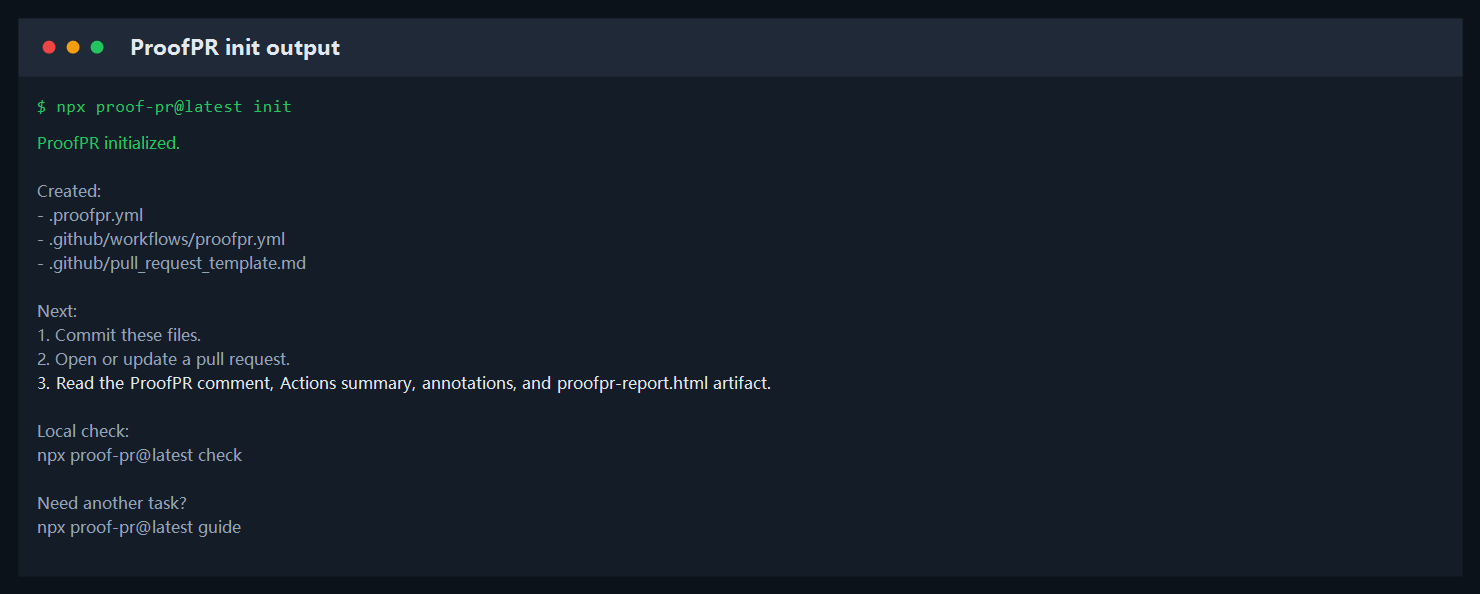
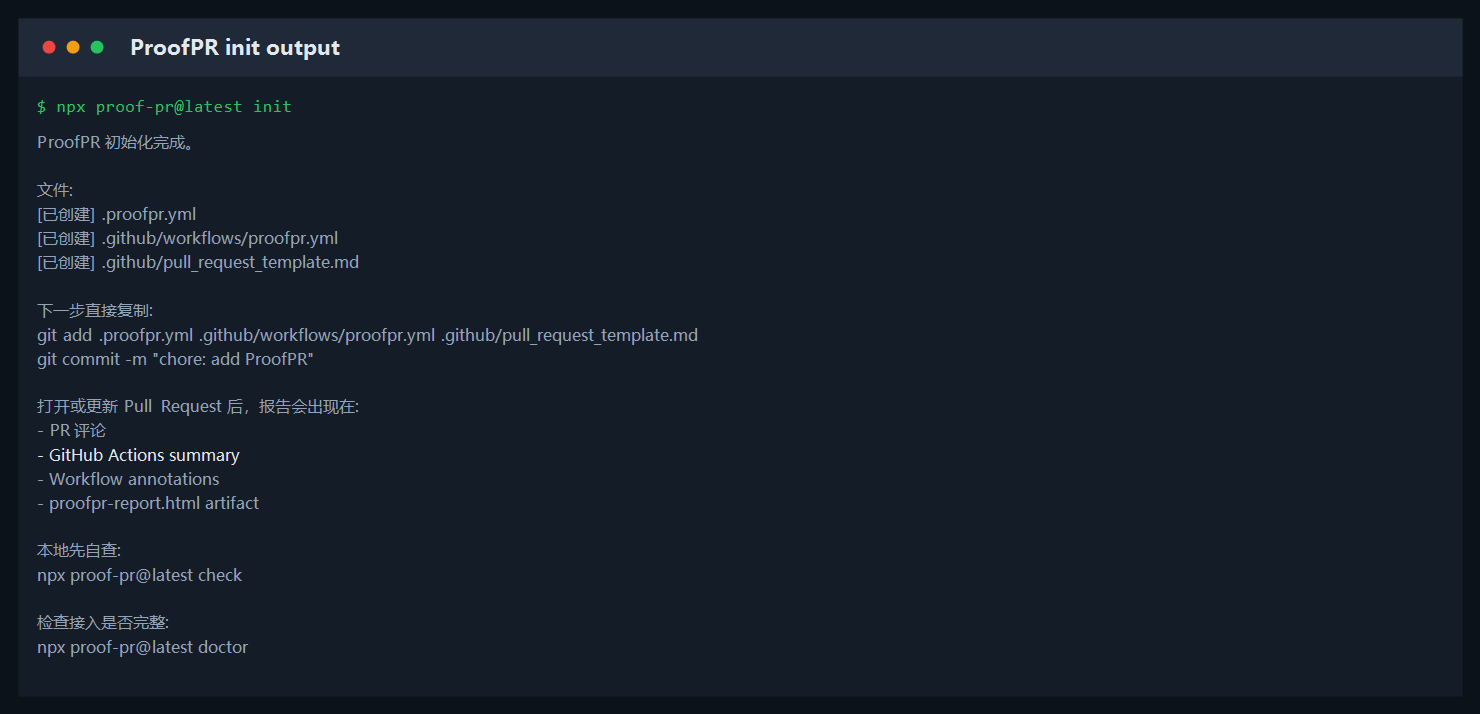
feat: simplify ProofPR onboarding

Changed region(s): [[0.0, 0.1212, 0.5284, 0.9394], [0.0311, 0.0, 0.9635, 0.0909]]

diff --git a/packages/cli/src/index.ts b/packages/cli/src/index.ts
@@ -22,7 +22,7 @@ import {
 } from "@proof-pr/core";
 
 const execFileAsync = promisify(execFile);
-const CLI_VERSION = "0.1.20";
+const CLI_VERSION = "0.1.21";
 
 type OutputFormat = "json" | "markdown" | "sarif" | "html";
 type FailLevel = RiskLevel | "never";
@@ -68,7 +68,7 @@ interface DoctorCommandOptions {
   config: string;
   workflowPath: string;
   prTemplatePath: string;
-  base: string;
+  base?: string;
   head: string;
 }
 
@@ -86,6 +86,11 @@ interface DoctorCheck {
 interface DoctorReport {
   checks: DoctorCheck[];
   nextSteps: string[];
+}
+
+interface InitFileResult {
+  path: string;
+  status: "created" | "updated" | "skipped";
 }
 
 interface DemoCase {
@@ -316,7 +321,7 @@ program
   .option("--config <path>", "Path to .proofpr.yml.", ".proofpr.yml")
   .option("--workflow-path <path>", "Path to the GitHub Actions workflow.", ".github/workflows/proofpr.yml")
   .option("--pr-template-path <path>", "Path to the pull request template.", ".github/pull_request_template.md")
-  .option("--base <ref>", "Base git ref used for local diff checks.", "origin/main")
+  .option("--base <ref>", "Base git ref used for local diff checks. Defaults to the same auto-detected base as check.")
   .option("--head <ref>", "Head git ref used for local diff checks.", "HEAD")
   .action(async (options: DoctorCommandOptions) => {
     const report = await runDoctor(options);
@@ -470,32 +475,29 @@ program
   .option("--fail-on <level>", "Workflow failure threshold: low, medium, high, or never.", parseFailLevel, "high")
   .option("--force", "Overwrite existing files.", false)
   .action(async (options: InitCommandOptions) => {
-    await writeIfMissing(options.configPath, renderConfigTemplate(options.preset), options.force);
-    await writeIfMissing(
-      options.workflowPath,
-      renderWorkflowTemplate(options.failOn, options.htmlReport, options.htmlOutput),
-      options.force
-    );
-    const created = [options.configPath, options.workflowPath];
-    const skipped: string[] = [];
+    const results: InitFileResult[] = [
+      {
+        path: options.configPath,
+        status: await writeProjectFile(options.configPath, renderConfigTemplate(options.preset), options.force)
+      },
+      {
+        path: options.workflowPath,
+        status: await writeProjectFile(
+          options.workflowPath,
+          renderWorkflowTemplate(options.failOn, options.htmlReport, options.htmlOutput),
+          options.force
+        )
+      }
+    ];
 
     if (options.prTemplate) {
-      const wroteTemplate = await writeIfMissingSoft(
-        options.prTemplatePath,
-        renderPullRequestTemplate(),
-        options.force
-      );
-
-      if (wroteTemplate) {
-        created.push(options.prTemplatePath);
-      } else {
-        skipped.push(`${options.prTemplatePath} already exists`);
-      }
+      results.push({
+        path: options.prTemplatePath,
+        status: await writeProjectFile(options.prTemplatePath, renderPullRequestTemplate(), options.force)
+      });
     }
 
-    process.stdout.write(
-      `ProofPR initialized.\n\nCreated:\n${created.map((item) => `- ${item}`).join("\n")}${skipped.length > 0 ? `\n\nSkipped:\n${skipped.map((item) => `- ${item}`).join("\n")}` : ""}\n\nNext:\n1. Commit these files.\n2. Open or update a pull request.\n3. Read the ProofPR comment, Actions summary, annotations${options.htmlReport ? `, and ${options.htmlOutput} artifact` : ""}.\n\nLocal check:\nnpx proof-pr@latest check\n\nNeed another task?\nnpx proof-pr@latest guide\n`
-    );
+    process.stdout.write(renderInitReport(results, options));
   });
 
 program
@@ -547,11 +549,11 @@ function renderGuide(): string {
 
 1. 接入 GitHub PR 自动检查
    npx proof-pr@latest init
-   然后提交 .proofpr.yml、.github/workflows/proofpr.yml 和 .github/pull_request_template.md，打开 PR 后看评论、Actions summary、annotations 和 HTML artifact。
+   然后提交 .proofpr.yml、.github/workflows/proofpr.yml 和 .github/pull_request_template.md；重复运行不会覆盖已有文件，需要刷新模板时加 --force。
 
 2. 体检当前仓库接入状态
    npx proof-pr@latest doctor
-   检查配置文件、workflow、PR 模板、Action 版本、PR 权限和本地 diff 是否正常。
+   检查配置文件、workflow、PR 模板、Action 版本、PR 权限和本地 diff 是否正常，并自动识别常见 base 分支。
 
 3. 已接入仓库，单独补 PR 模板
    npx proof-pr@latest template
@@ -796,20 +798,33 @@ async function inspectGitDiff(
     checks.push({ level: "info", title: "无法读取当前分支名" });
   }
 
+  const detectedBase = options.base ?? (await resolveDefaultBaseRef().catch(() => undefined));
+
   try {
-    const diff = await readGitDiff(options.base, options.head);
-    checks.push({
-      level: "pass",
-      title: `可以读取 ${options.base}...${options.head} diff`,
-      detail: diff.length === 0 ? "当前没有可扫描的 diff。" : `diff 大小约 ${diff.length} 字符。`
-    });
+    if (detectedBase) {
+      const diff = await readCheckDiff(detectedBase, options.head);
+      checks.push({
+        level: "pass",
+        title: `可以读取 ${detectedBase}...${options.head} diff`,
+        detail: diff.length === 0 ? "当前没有可扫描的 diff。" : `diff 大小约 ${diff.length} 字符。`
+      });
+    } else {
+      const diff = await readGitDiff(undefined, options.head);
+      checks.push({
+        level: "warn",
+        title: "未找到默认 base 分支，只检查当前工作区 diff",
+        detail: diff.length === 0 ? "当前工作区没有可扫描的 diff。" : `工作区 diff 大小约 ${diff.length} 字符。`
+      });
+      nextSteps.add("如果仓库有远程主分支，先运行 git fetch origin；主分支不是 main/master 时，使用 npx proof-pr@latest doctor --base origin/你的主分支。");
+    }
   } catch (error) {
+    const baseLabel = detectedBase ?? "工作区";
     checks.push({
       level: "warn",
-      title: `无法读取 ${options.base}...${options.head} diff`,
+      title: `无法读取 ${baseLabel}...${options.head} diff`,
       detail: error instanceof Error ? error.message : String(error)
     });
-    nextSteps.add(`运行 git fetch origin 后重试；如果主分支不是 main，请使用 --base origin/master 或你的实际主分支。`);
+    nextSteps.add("运行 git fetch origin 后重试；如果主分支不是 main/master，请使用 --base origin/你的实际主分支。");
   }
 }
 
@@ -835,6 +850,42 @@ ${checks}
 
 Next:
 ${nextSteps}
+`;
+}
+
+function renderInitReport(results: InitFileResult[], options: InitCommandOptions): string {
+  const statusText: Record<InitFileResult["status"], string> = {
+    created: "已创建",
+    updated: "已更新",
+    skipped: "已存在，未覆盖"
+  };
+  const files = results.map((result) => `[${statusText[result.status]}] ${result.path}`).join("\n");
+  const skipped = results.filter((result) => result.status === "skipped");
+  const gitAddPaths = results.map((result) => result.path).join(" ");
+  const forceHint =
+    skipped.length > 0
+      ? "\n已有文件已保留不变。如果想用当前版本模板覆盖它们，运行：\nnpx proof-pr@latest init --force\n"
+      : "";
+
+  return `ProofPR 初始化完成。
+
+文件:
+${files}
+${forceHint}
+下一步直接复制:
+git add ${gitAddPaths}
+git commit -m "chore: add ProofPR"
+
+打开或更新 Pull Request 后，报告会出现在:
+- PR 评论
+- GitHub Actions summary
+- Workflow annotations${options.htmlReport ? `\n- ${options.htmlOutput} artifact` : ""}
+
+本地先自查:
+npx proof-pr@latest check
+
+检查接入是否完整:
+npx proof-pr@latest doctor
 `;
 }
 
@@ -951,14 +1002,16 @@ async function writeIfMissing(path: string, contents: string, force: boolean): P
   await writeFile(path, contents, "utf8");
 }
 
-async function writeIfMissingSoft(path: string, contents: string, force: boolean): Promise<boolean> {
-  if (!force && (await pathExists(path))) {
-    return false;
+async function writeProjectFile(path: string, contents: string, force: boolean): Promise<InitFileResult["status"]> {
+  const exists = await pathExists(path);
+
+  if (exists && !force) {
+    return "skipped";
   }
 
   await mkdir(dirname(path), { recursive: true });
   await writeFile(path, contents, "utf8");
-  return true;
+  return exists ? "updated" : "created";
 }
 
 async function writeOutput(path: string, contents: string): Promise<void> {

diff --git a/docs/commands.md b/docs/commands.md
@@ -73,6 +73,12 @@ npx proof-pr@latest init
 
 提交这些文件后，打开或更新 Pull Request，ProofPR 会自动运行。默认结果会出现在 PR 评论、Actions summary、workflow annotations 和 `proofpr-report` artifact。PR 模板会提醒贡献者补充验证、复现、截图、changelog 和权限理由。
 
+这个命令可以重复执行。已有文件默认保留不覆盖；如果想把配置、workflow 和 PR 模板刷新到当前版本模板，再使用：
+
+```bash
+npx proof-pr@latest init --force
+```
+
 如果你的仓库已经接入过 ProofPR，只想单独补 PR 模板：
 
 ```bash
@@ -101,12 +107,12 @@ npx proof-pr@latest doctor
 - `.github/workflows/proofpr.yml` 是否存在。
 - `.github/pull_request_template.md` 是否存在，以及是否提示验证、复现、截图或权限理由。
 - workflow 是否监听 `pull_request`。
-- workflow 是否使用当前推荐的 `linsk27/proof-pr@v0.1.20`。
+- workflow 是否使用当前推荐的 `linsk27/proof-pr@v0.1.21`。
 - 是否具备 `pull-requests: write` 和 `contents: read` 权限。
 - 是否启用了 `html-output` 和 `actions/upload-artifact`，方便下载 HTML 可视化报告。
-- 当前目录是否在 Git 仓库里，以及 `origin/main...HEAD` diff 是否可读。
+- 当前目录是否在 Git 仓库里，以及自动识别出的 base...HEAD diff 是否可读。
 
-如果你的主分支不是 `main`，可以这样指定：
+`doctor` 默认会像 `check` 一样自动选择 `origin/main`、`origin/master`、`upstream/main`、`upstream/master`、`main` 或 `master`。如果你的主分支不是这些名字，可以这样指定：
 
 ```bash
 npx proof-pr@latest doctor --base origin/master

diff --git a/docs/release.md b/docs/release.md
@@ -1,6 +1,6 @@
 # 发布流程
 
-当前最新公开版本是 `0.1.20`。
+当前最新公开版本是 `0.1.21`。
 
 ## 发布前检查
 
@@ -52,8 +52,8 @@ npm 官方要求 trusted publishing 使用 npm 11.5.1+ 和 Node 22.14+；`npm tr
 确认 `pnpm release:check` 通过后：
 
 ```bash
-git tag v0.1.20
-git push origin v0.1.20
+git tag v0.1.21
+git push origin v0.1.21
 ```
 
 发布完成后需要检查：
@@ -66,9 +66,17 @@ npx proof-pr@latest --version
 当前验证结果：
 
 ```txt
-npm view proof-pr version -> 0.1.20
-npx proof-pr@latest --version -> 0.1.20
+npm view proof-pr version -> 0.1.21
+npx proof-pr@latest --version -> 0.1.21
 ```
+
+## `v0.1.21` 发布状态
+
+`v0.1.21` 是首轮接入体验增强版，重点包括：
+
+- `proof-pr init` 可以重复执行，已有配置默认保留不覆盖，避免新用户因为文件已存在直接卡住。
+- `proof-pr init` 输出更短，直接给出要提交的文件、本地自查命令和接入体检命令。
+- `proof-pr doctor` 默认自动识别 base 分支，和 `check` 的默认行为保持一致；找不到远程主分支时给出明确处理建议。
 
 ## `v0.1.20` 发布状态
 
@@ -135,7 +143,7 @@ npx proof-pr@latest --version -> 0.1.20
 
 ## 版本说明
 
-`0.1.8` 已经发布到 npm，但 CLI `--version` 仍显示旧版本。`0.1.20` 继承了后续修复，并且是当前推荐使用版本。
+`0.1.8` 已经发布到 npm，但 CLI `--version` 仍显示旧版本。`0.1.21` 继承了后续修复，并且是当前推荐使用版本。
 
 ## 发布后动作
 

diff --git a/docs/getting-started.md b/docs/getting-started.md
@@ -34,6 +34,8 @@ npx proof-pr@latest init
 
 把这些文件提交到仓库，打开或更新 PR，就会自动生成报告。默认会同时输出 PR 评论、Actions summary、workflow annotations 和 `proofpr-report.html` artifact。PR 模板会提醒贡献者写清验证、复现、截图、changelog 和权限理由。
 
+`init` 可以重复运行。已有文件默认不会被覆盖；如果你想升级到当前版本模板，再运行 `npx proof-pr@latest init --force`。
+
 安装后可以先体检一次：
 
 ```bash
@@ -72,7 +74,7 @@ jobs:
     runs-on: ubuntu-latest
     steps:
       - uses: actions/checkout@v4
-      - uses: linsk27/proof-pr@v0.1.20
+      - uses: linsk27/proof-pr@v0.1.21
         with:
           fail-on: high
           comment: "true"
@@ -143,7 +145,7 @@ npx proof-pr@latest check
 
 `check` 会自动选择常见主分支作为 base，并纳入已提交分支 diff、staged、unstaged 和未跟踪新文件。
 
-如果第一行输出 `0.1.20`，说明你正在使用当前最新发布版。
+如果第一行输出 `0.1.21`，说明你正在使用当前最新发布版。
 
 也可以全局安装：
 

diff --git a/docs/README.md b/docs/README.md
@@ -15,8 +15,8 @@
 
 ## 当前发布
 
-- GitHub Release：[`v0.1.20`](https://github.com/linsk27/proof-pr/releases/tag/v0.1.20)
-- npm：[`proof-pr@0.1.20`](https://www.npmjs.com/package/proof-pr)
+- GitHub Release：[`v0.1.21`](https://github.com/linsk27/proof-pr/releases/tag/v0.1.21)
+- npm：[`proof-pr@0.1.21`](https://www.npmjs.com/package/proof-pr)
 - 核心能力：Review Plan、`demo` 内置案例、`doctor` 接入体检、PR 模板生成、默认 HTML artifact、规则预设、Evidence Contract、GitHub annotations、SARIF、benchmark、真实案例库、依赖大版本升级检查、供应链来源/版本/lockfile/解析覆盖检查、包生命周期脚本检查、`pull_request_target` / PR head checkout 检查、可筛选并可复制补证清单的独立 HTML 可视化报告、npm Trusted Publishing 发布流程、Marketplace 准备材料。
 
 确认本机拿到的 latest：
@@ -26,7 +26,7 @@ npm view proof-pr version
 npx proof-pr@latest --version
 ```
 
-当前都应输出 `0.1.20`。
+当前都应输出 `0.1.21`。
 
 不知道用哪个功能时：
 

diff --git a/docs/zero-to-one.md b/docs/zero-to-one.md
@@ -42,6 +42,8 @@ npx proof-pr@latest init
 
 默认配置已经会输出中文报告、上传 HTML 可视化报告，并使用开源维护者预设。PR 模板会引导贡献者补充验证、复现、截图、changelog 和权限理由。
 
+这条命令可以重复运行。已有文件默认会保留不覆盖；如果以后想刷新到当前版本模板，再运行 `npx proof-pr@latest init --force`。
+
 如果你中途忘了某个功能怎么用，运行：
 
 ```bash
@@ -146,7 +148,7 @@ npx proof-pr@latest check
 
 `check` 会自动选择常见主分支作为 base，并纳入已提交分支 diff、staged、unstaged 和未跟踪新文件。
 
-第一行当前应输出 `0.1.20`，用于确认 npm latest 已经安装正确。
+第一行当前应输出 `0.1.21`，用于确认 npm latest 已经安装正确。
 
 扫描内置案例：
 
@@ -198,7 +200,7 @@ permissions:
 
 steps:
   - uses: actions/checkout@v4
-  - uses: linsk27/proof-pr@v0.1.20
+  - uses: linsk27/proof-pr@v0.1.21
     with:
       fail-on: high
       comment: "true"

diff --git a/CHANGELOG.md b/CHANGELOG.md
@@ -4,6 +4,12 @@
 
 暂无。
 
+## 0.1.21 - 2026-05-15
+
+- `init` 改为可重复执行：已有 `.proofpr.yml`、workflow 或 PR 模板时默认保留不覆盖，并提示使用 `--force` 更新模板。
+- `init` 输出改为更直接的中文接入步骤，包含可复制的 `git add` / `git commit`、报告查看位置、本地自查和接入体检命令。
+- `doctor` 默认复用 `check` 的 base 自动识别逻辑，不再固定假设 `origin/main`，并在没有远程主分支时给出更清晰的处理建议。
+
 ## 0.1.20 - 2026-05-15
 
 - `check` 默认扫描当前工作区相对 base 的最终状态，包含已提交分支 diff、staged、unstaged 和未跟踪新文件。

diff --git a/docs/roadmap.md b/docs/roadmap.md
@@ -62,4 +62,4 @@ ProofPR 的长期定位不是“又一个代码扫描器”，而是 **AI 时代
 
 ## 下一版优先级
 
-下一步优先用 `0.1.20` 的本地自查和中文供应链报告更新真实 demo PR 截图和 Marketplace 页面。
+下一步优先用 `0.1.21` 的简化接入流程更新真实 demo PR 截图和 Marketplace 页面，并继续准备 GitHub Marketplace 上架材料。

diff --git a/docs/sarif-code-scanning.md b/docs/sarif-code-scanning.md
@@ -59,7 +59,7 @@ jobs:
     runs-on: ubuntu-latest
     steps:
       - uses: actions/checkout@v4
-      - uses: linsk27/proof-pr@v0.1.20
+      - uses: linsk27/proof-pr@v0.1.21
         with:
           fail-on: high
           comment: "true"
